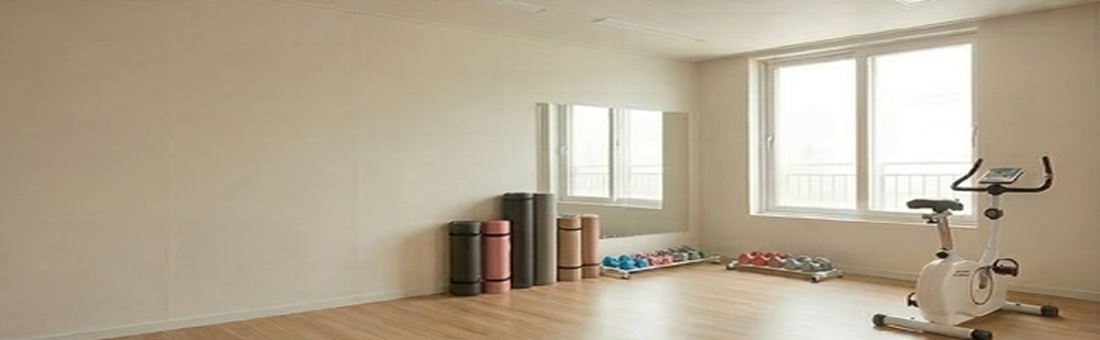
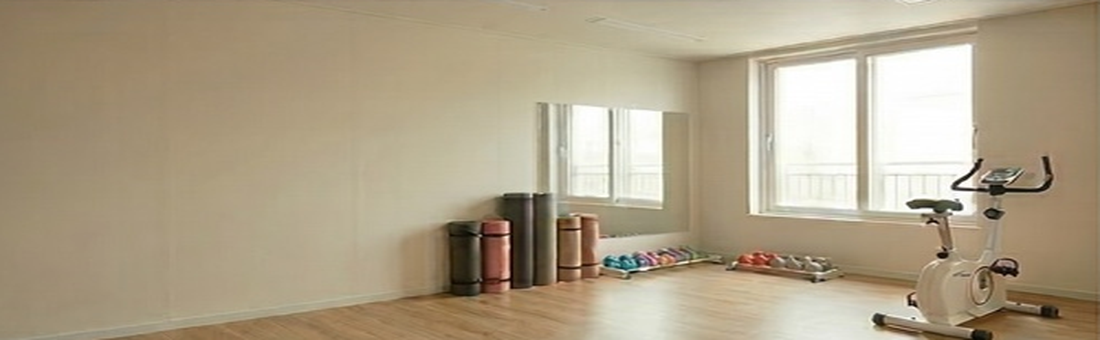
메인 화면 슬라이드 배너 생성

diff --git a/frontend_workspace/src/shared/pages/Home.module.css b/frontend_workspace/src/shared/pages/Home.module.css
@@ -31,20 +31,22 @@
 .bannerFrame {
   position: relative;
   width: min(1100px, 92vw);
-  height: 340px;
+  aspect-ratio: 1100 / 340;
+  height: auto;
   margin: 0 auto;
   border-radius: 16px;
   overflow: hidden;
   box-shadow: 0 20px 40px rgba(15, 23, 42, 0.28);
-  background: #f8f5f1;
+  background: transparent;
 }
 
 .bannerImage {
   width: 100%;
   height: 100%;
-  object-fit: contain;
+  object-fit: cover;
+  object-position: center;
   display: block;
-  background: #f8f5f1;
+  background: transparent;
 }
 
 .bannerNav {
@@ -123,7 +125,6 @@
   }
 
   .bannerFrame {
-    height: 240px;
     width: 94vw;
     border-radius: 12px;
   }
